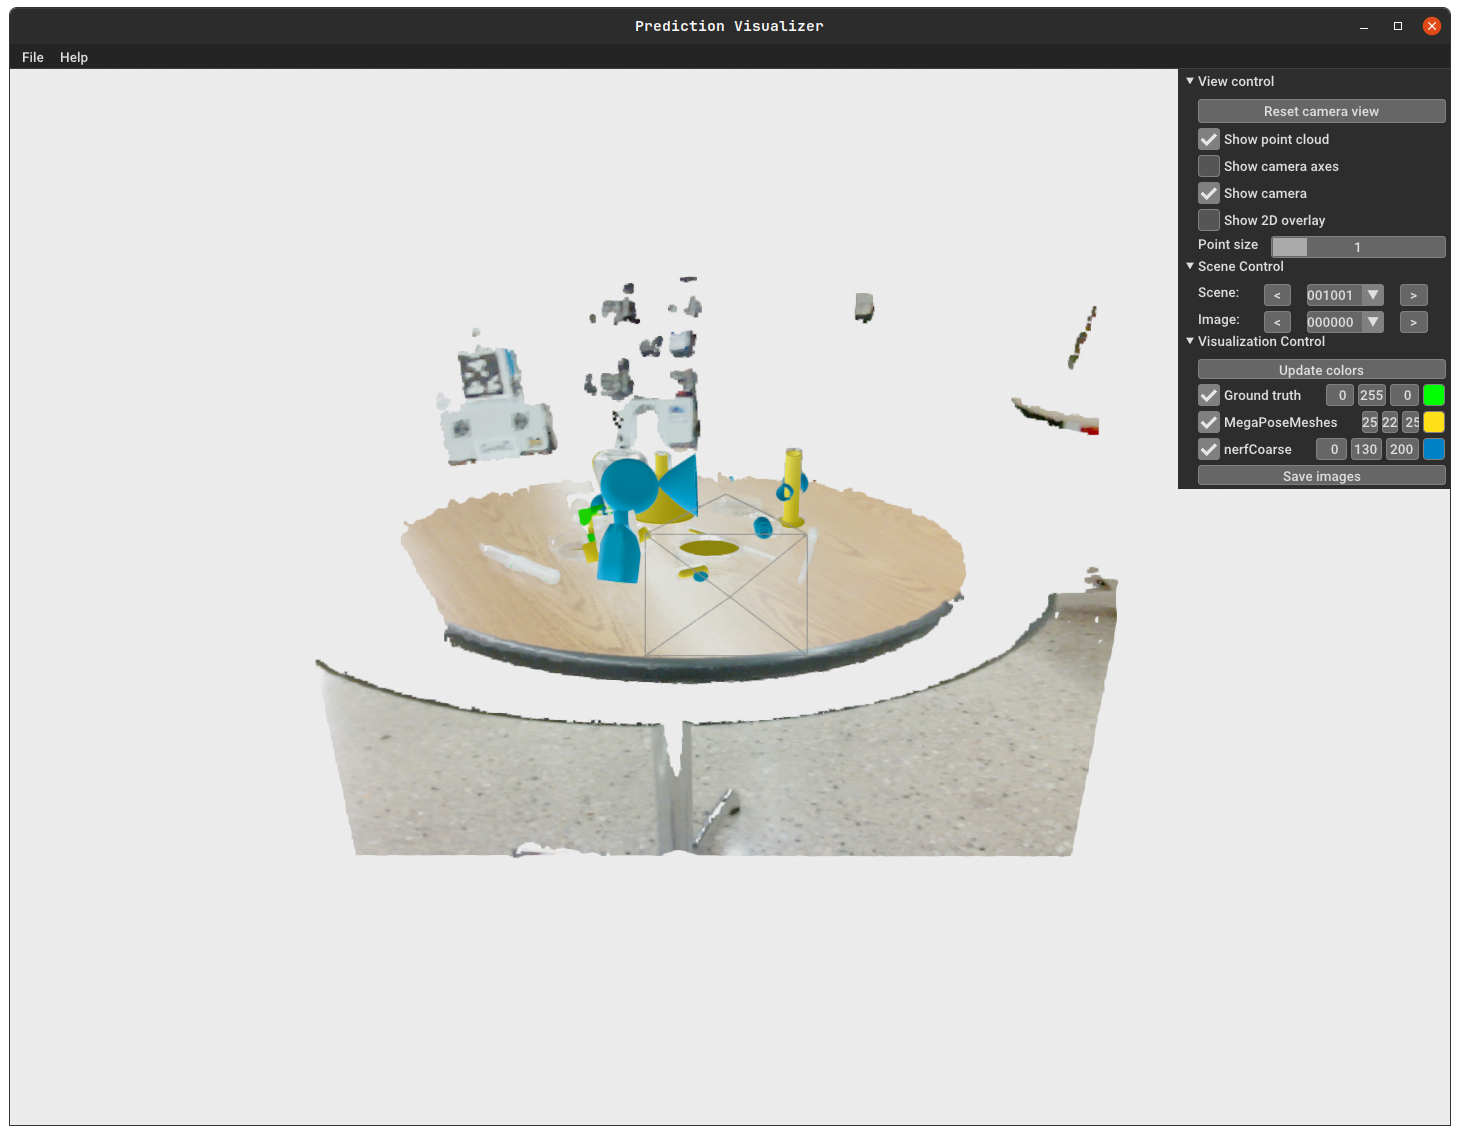
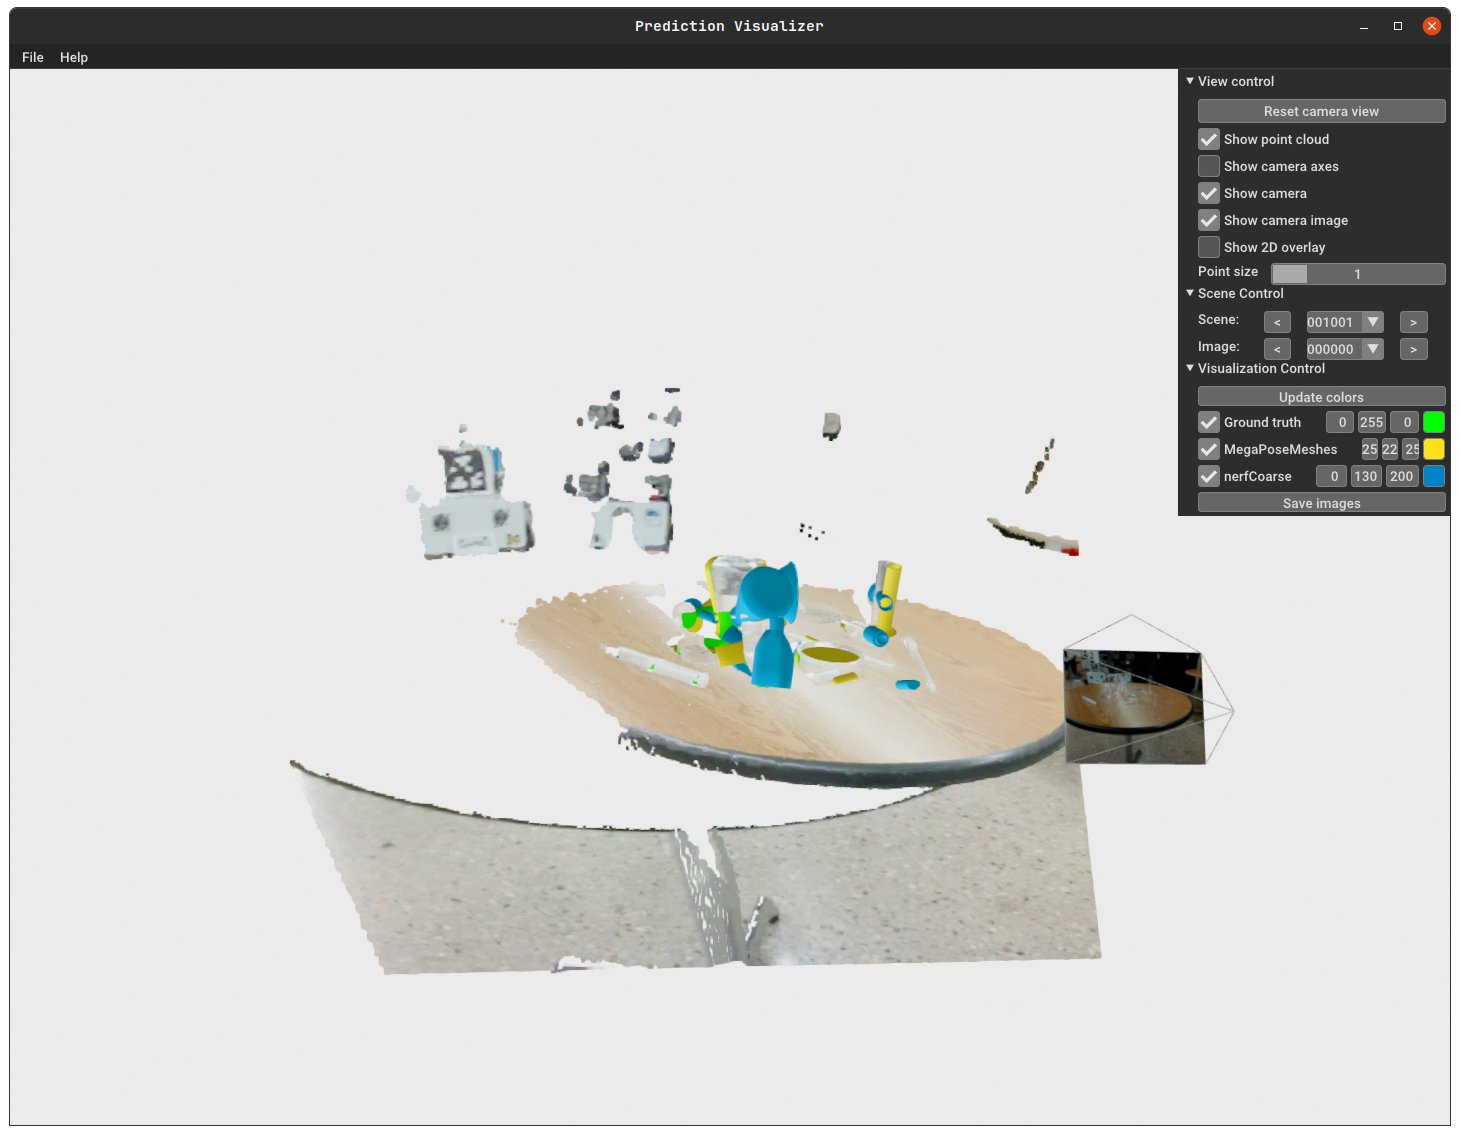
Finaly added possibility of showcasing current image in the 3D scene

diff --git a/src/predictionApp.py b/src/predictionApp.py
@@ -258,6 +258,11 @@ class AppWindow:
         self._show_camera_pyramid.checked = True
         view_ctrls.add_child(self._show_camera_pyramid)
 
+        self._show_camera_image = gui.Checkbox("Show camera image")
+        self._show_camera_image.set_on_checked(self._on_show_camera_image)
+        self._show_camera_image.checked = False
+        view_ctrls.add_child(self._show_camera_image)
+
         self._show_2D = gui.Checkbox("Show 2D overlay")
         self._show_2D.set_on_checked(self._on_show_2D)
         view_ctrls.add_child(self._show_2D)
@@ -440,7 +445,7 @@ class AppWindow:
 
     def _init_window2D(self, image: np.ndarray) -> None:
         """ Initializes the 2D visualization window
-
+    
         Args:
             image (np.ndarray): Image for the 2D visualization [HxWx3]
         """
@@ -452,11 +457,10 @@ class AppWindow:
         )
         self.rgb_window_widget = gui.ImageWidget(img_o3d)
         self.rgb_window.add_child(self.rgb_window_widget)
-        self.rgb_window.show(self._show_2D.checked)
-
         self.rgb_window.set_on_close(self._igonore_close)
         
         self._img_window_initialized = True
+        self.rgb_window.show(self._show_2D.checked)
 
     def _igonore_close(self) -> None:
         """Ignores the close event of the 2D visualization window"""
@@ -716,7 +720,6 @@ class AppWindow:
 
     def _on_show_predictions(self, show):
         """Serves as a callback for the prediction checkboxes, Removes and shows the predictions based on the checkbox state"""
-        print("update the scene")
         mtl = o3d.visualization.rendering.MaterialRecord()
         mtl.base_color = [1.0, 1.0, 1.0, 1.0]  # RGBA
         mtl.shader = "defaultLit"
@@ -909,11 +912,42 @@ class AppWindow:
                     continue
 
     def _on_show_camera_pyramid(self, show):
+        """ Callback for the camera pyramid checkbox
+
+        If the checkbox is checked the camera pyramid is shown in the scene
+        If it is unchecked the camera pyramid is removed from the scene as well as the image plane if it is shown
+
+        Args:
+            show (_type_): _description_
+        """        
         if show:
             self.create_camera_pyramid(self.rgb, self.Kmx)
         else:
             self._scene.scene.remove_geometry("camera")
             self._scene.scene.remove_geometry("camera_top")
+
+            if self._show_camera_image.checked:
+                self._scene.scene.remove_geometry("image_plane")
+                self._show_camera_image.checked = False
+
+    def _on_show_camera_image(self, show):
+        """Callback for the camera image checkbox
+
+        If the checkbox is checked the camera image is shown in the scene
+
+
+        Args:
+            show (_type_): _description_
+        """   
+
+        if show and self._show_camera_pyramid.checked:
+            self.create_image_plane(self.rgb, *self._cam_img_plane)
+        
+        else:
+            self._scene.scene.remove_geometry("image_plane")
+            self._show_camera_image.checked = False
+    
+
 
     def create_camera_pyramid(self, rgb:np.ndarray, cam_K:np.ndarray) -> None:
         """Based on the camera intrinsics and rgb image creates the camera pyramid
@@ -942,6 +976,9 @@ class AppWindow:
         left_top = camera_points[1,:]
         right_top = camera_points[2,:]
         right_bot = camera_points[3,:]
+        left_bot = camera_points[4,:]
+        cam_img_plane = [left_top, right_top, right_bot, left_bot]
+        self._cam_img_plane = cam_img_plane
         height = np.abs(right_bot[1] - right_top[1])
         h = height * 0.33
         
@@ -959,6 +996,43 @@ class AppWindow:
         self._scene.scene.add_geometry("camera_top", top_lineset, mtl)
 
         # TODO: Figure out if it is possible to add the current image inside the camera pyramid
+        
+
+    def create_image_plane(self, rgb:np.ndarray, left_top:np.ndarray, right_top:np.ndarray, right_bot:np.ndarray, left_bot:np.ndarray):
+        
+        img = cv2.cvtColor(rgb, cv2.COLOR_BGR2RGB)
+        # img = cv2.rotate(img, cv2.ROTATE_180)
+        img = cv2.flip(img, 0)
+        map_image = o3d.geometry.Image(img)
+
+        o3d.io.write_image("map_image.png", map_image)
+        # map_resy =  rgb.shape[0]
+        # map_resx =  rgb.shape[1]
+        # dtype_f = o3d.core.float32
+        # dtype_i = o3d.core.int64
+        
+        # Create a rectangle mesh with the image as texture
+        vertices = np.array([left_top, right_top, right_bot, left_bot], dtype=np.float32)
+        triangles = np.array([[0, 1, 2], [0, 2, 3]], dtype=np.int32)
+        uvs = np.array([[0, 0], [1, 0], [1, 1], [0,0], [1,1], [0,1]], dtype=np.float32)
+
+
+        # Create a material for the textured mesh
+        material = o3d.visualization.rendering.MaterialRecord()
+        # material.shader = "defaultLit"
+        material.base_color = [1.0, 1.0, 1.0, 1.0]  # RGBA
+        material.base_metallic = 0.0
+        material.base_roughness = 1.0
+        material.albedo_img = map_image
+        # Map the image to the camera pyramid
+        texture_map = o3d.geometry.TriangleMesh()
+        texture_map.vertices = o3d.utility.Vector3dVector(vertices)
+        texture_map.triangles = o3d.utility.Vector3iVector(triangles)
+        texture_map.triangle_uvs = o3d.utility.Vector2dVector(uvs)
+        texture_map.textures = [map_image]
+        # texture_map.compute_vertex_normals()
+
+        self._scene.scene.add_geometry("image_plane", texture_map, material)
 
 
     def scene_load(self, scene_idx: int, image_idx: int) -> None:

diff --git a/README.md b/README.md
@@ -56,5 +56,6 @@ Will call 2 subprocesses for the GUI/3D visualization and the 2D visualization s
 # TODO: Features to add
 - [X] Add the switching between rgb and gray. This is required due to some of the datasets being in grayscale.
 - [X] Add config loading in the main.py and its usege in the application.
-- [ ] Add the camera pose visualization.
+- [X] Add the camera pose visualization.
 - [ ] Make more robust for xyzibd where multiple cameras are present in the scene.
+- [ ] Finish the documentation and type hints.
